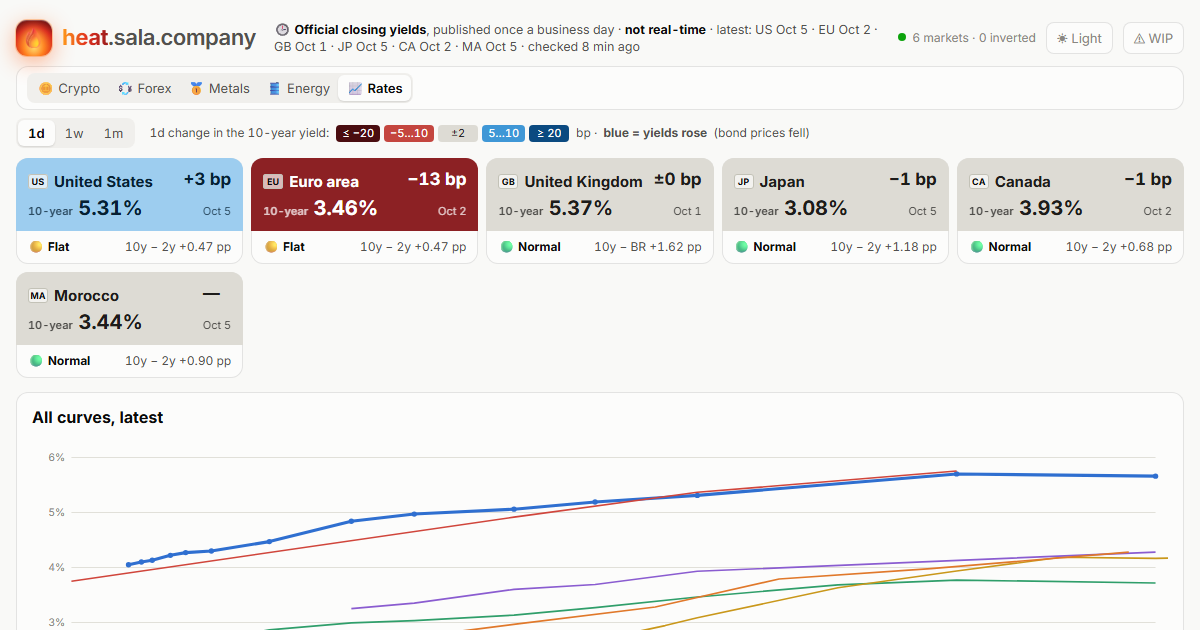
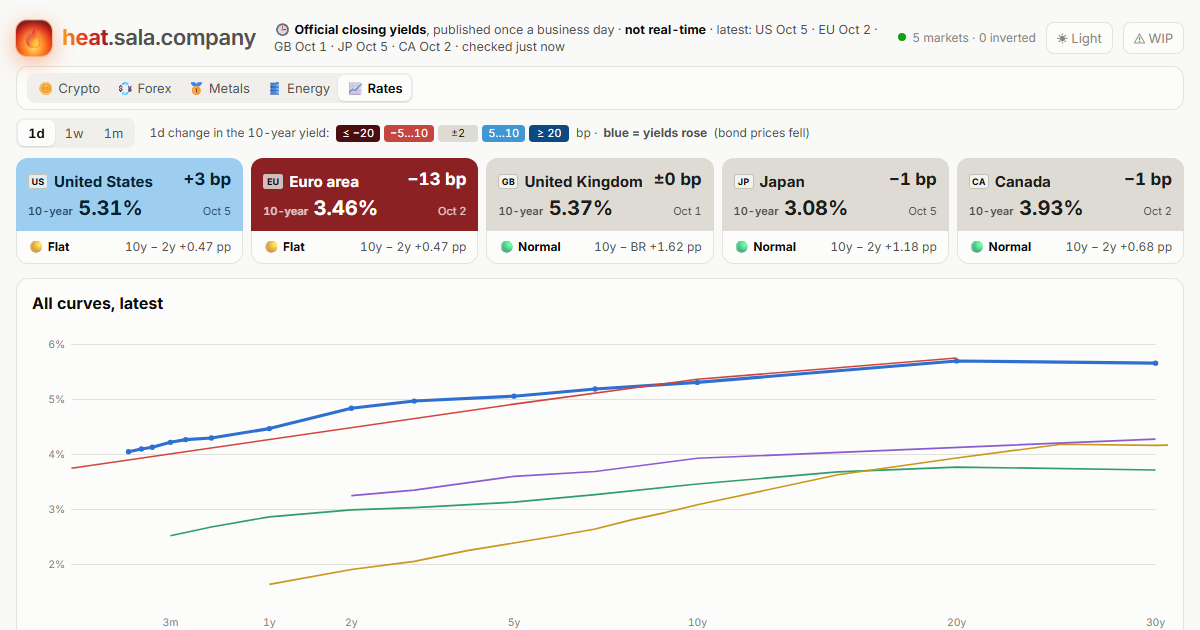
rates: drop Morocco (Bank Al-Maghrib refuses GitHub's servers)
Its website answers home connections but returns 403 to every request
from GitHub's runners, whatever the headers, so the curve can't be built
in the deploy job. Five markets remain; the About text says why Morocco
and the Gulf markets aren't shown.

diff --git a/seo/rates-head.html b/seo/rates-head.html
@@ -1,6 +1,6 @@
 <!-- SEO:start: search and link-preview tags for the rates page (swapped in by scripts/market-page.mjs) -->
 <title>Government Bond Yield Curves: US, Europe, UK, Japan | heat.sala.company</title>
-<meta name="description" content="Free government bond yield curves for the US, euro area, UK, Japan, Canada and Morocco from official sources: 10-year yields, daily changes and whether each curve is normal, flat or inverted.">
+<meta name="description" content="Free government bond yield curves for the US, euro area, UK, Japan and Canada from official sources: 10-year yields, daily changes and whether each curve is normal, flat or inverted.">
 <link rel="canonical" href="https://heat.sala.company/rates/">
 <meta name="robots" content="index, follow, max-image-preview:large">
 <meta name="author" content="sala.company">
@@ -9,14 +9,14 @@
 <meta property="og:site_name" content="heat.sala.company">
 <meta property="og:url" content="https://heat.sala.company/rates/">
 <meta property="og:title" content="Government Bond Yield Curves">
-<meta property="og:description" content="10-year yields and full yield curves for the US, euro area, UK, Japan, Canada and Morocco, from official sources, with a normal / flat / inverted reading for each.">
+<meta property="og:description" content="10-year yields and full yield curves for the US, euro area, UK, Japan and Canada, from official sources, with a normal / flat / inverted reading for each.">
 <meta property="og:image" content="https://heat.sala.company/og-image-rates.png">
 <meta property="og:image:width" content="1200">
 <meta property="og:image:height" content="630">
-<meta property="og:image:alt" content="The heat.sala.company rates page: 10-year yield tiles and yield curves for six markets">
+<meta property="og:image:alt" content="The heat.sala.company rates page: 10-year yield tiles and yield curves for five markets">
 <meta name="twitter:card" content="summary_large_image">
 <meta name="twitter:title" content="Government Bond Yield Curves">
-<meta name="twitter:description" content="10-year yields and yield curves for the US, euro area, UK, Japan, Canada and Morocco: normal, flat or inverted.">
+<meta name="twitter:description" content="10-year yields and yield curves for the US, euro area, UK, Japan and Canada: normal, flat or inverted.">
 <meta name="twitter:image" content="https://heat.sala.company/og-image-rates.png">
 <!-- structured data: what this page is, plus the FAQ shown in the footer -->
 <script type="application/ld+json">
@@ -32,7 +32,7 @@
       "operatingSystem": "Any (web browser)",
       "isAccessibleForFree": true,
       "offers": { "@type": "Offer", "price": "0", "priceCurrency": "USD" },
-      "description": "Government bond yield curves for the United States, the euro area, the United Kingdom, Japan, Canada and Morocco, from official sources: each market's 10-year yield and its daily, weekly and monthly change, the whole curve now and a week, a month and a year ago, and whether the curve is normal, flat or inverted.",
+      "description": "Government bond yield curves for the United States, the euro area, the United Kingdom, Japan and Canada, from official sources: each market's 10-year yield and its daily, weekly and monthly change, the whole curve now and a week, a month and a year ago, and whether the curve is normal, flat or inverted.",
       "publisher": { "@type": "Organization", "name": "sala.company", "url": "https://sala.company/" }
     },
     {
@@ -43,9 +43,9 @@
         { "@type": "Question", "name": "How do I know if a yield curve is healthy?",
           "acceptedAnswer": { "@type": "Answer", "text": "Look at the gap between the 10-year and the 2-year yield (for the UK, the Bank of England's Bank Rate). Half a percentage point or more is normal; between zero and half a point is flat; below zero, with short-term rates above long-term ones, the curve is inverted. An inverted US curve has come before most US recessions, though the timing varies and it is not a guarantee." } },
         { "@type": "Question", "name": "Where does the data come from, and how fresh is it?",
-          "acceptedAnswer": { "@type": "Answer", "text": "Only from official sources: the US Treasury, the European Central Bank, the Bank of England, Japan's Ministry of Finance, the Bank of Canada and Bank Al-Maghrib. They publish closing yields once a business day, some a few days late, so each market shows its own date. Nothing here is real-time." } },
+          "acceptedAnswer": { "@type": "Answer", "text": "Only from official sources: the US Treasury, the European Central Bank, the Bank of England, Japan's Ministry of Finance and the Bank of Canada. They publish closing yields once a business day, some a few days late, so each market shows its own date. Nothing here is real-time." } },
         { "@type": "Question", "name": "Why aren't Saudi Arabia, the UAE or other Gulf markets shown?",
-          "acceptedAnswer": { "@type": "Answer", "text": "Their central banks publish auction results, not a daily yield curve, and no free official daily source exists yet. China and India are missing for the same reason. Morocco's central bank does publish one every day, so it is included." } },
+          "acceptedAnswer": { "@type": "Answer", "text": "Their central banks publish auction results, not a daily yield curve, and no free official daily source exists yet. China and India are missing for the same reason. Morocco's central bank does publish a daily curve, but its website blocks the automated servers this site runs on." } },
         { "@type": "Question", "name": "Is this financial advice?",
           "acceptedAnswer": { "@type": "Answer", "text": "No. It is an experimental, work-in-progress tool. Data can be late, wrong or missing." } }
       ]

diff --git a/seo/rates-about.html b/seo/rates-about.html
@@ -1,15 +1,15 @@
     <!-- ABOUT:start: About + FAQ for the rates page (swapped in by scripts/market-page.mjs; same questions as the FAQ structured data) -->
     <section class="about" aria-labelledby="about-h">
       <h2 id="about-h">About these yield curves</h2>
-      <p>heat.sala.company/rates shows government bond yields for the United States, the euro area, the United Kingdom, Japan, Canada and Morocco: each market's 10-year yield, how it moved, and its whole yield curve, with a simple reading of whether the curve looks healthy.</p>
+      <p>heat.sala.company/rates shows government bond yields for the United States, the euro area, the United Kingdom, Japan and Canada: each market's 10-year yield, how it moved, and its whole yield curve, with a simple reading of whether the curve looks healthy.</p>
       <h3>What is a yield curve?</h3>
       <p>The interest rate a government pays to borrow for different lengths of time, from a few months to 30 years, drawn as one line. Normally it slopes up: lenders want more to lock their money away for longer.</p>
       <h3>How do I know if a yield curve is healthy?</h3>
       <p>Look at the gap between the 10-year and the 2-year yield (for the UK, the Bank of England's Bank Rate). Half a percentage point or more is <b>normal</b>; between zero and half a point is <b>flat</b>; below zero, with short-term rates above long-term ones, the curve is <b>inverted</b>. An inverted US curve has come before most US recessions, though the timing varies and it is not a guarantee.</p>
       <h3>Where does the data come from, and how fresh is it?</h3>
-      <p>Only from official sources: the US Treasury, the European Central Bank, the Bank of England, Japan's Ministry of Finance, the Bank of Canada and Bank Al-Maghrib. They publish closing yields once a business day, some a few days late, so each market shows its own date. Nothing here is real-time.</p>
+      <p>Only from official sources: the US Treasury, the European Central Bank, the Bank of England, Japan's Ministry of Finance and the Bank of Canada. They publish closing yields once a business day, some a few days late, so each market shows its own date. Nothing here is real-time.</p>
       <h3>Why aren't Saudi Arabia, the UAE or other Gulf markets shown?</h3>
-      <p>Their central banks publish auction results, not a daily yield curve, and no free official daily source exists yet. China and India are missing for the same reason. Morocco's central bank does publish one every day, so it is included.</p>
+      <p>Their central banks publish auction results, not a daily yield curve, and no free official daily source exists yet. China and India are missing for the same reason. Morocco's central bank does publish a daily curve, but its website blocks the automated servers this site runs on.</p>
       <h3>Is this financial advice?</h3>
       <p>No. It is an experimental, work-in-progress tool. Data can be late, wrong or missing.</p>
     </section>

diff --git a/seo/rates-sources.html b/seo/rates-sources.html
@@ -1,4 +1,4 @@
     <!-- SOURCES:start -->
-    <div class="cg-foot">Yields: <a href="https://home.treasury.gov/resource-center/data-chart-center/interest-rates" target="_blank" rel="noopener">US Treasury</a>, <a href="https://www.ecb.europa.eu/stats/financial_markets_and_interest_rates/euro_area_yield_curves/html/index.en.html" target="_blank" rel="noopener">European Central Bank</a>, <a href="https://www.bankofengland.co.uk/boeapps/database/" target="_blank" rel="noopener">Bank of England</a>, <a href="https://www.mof.go.jp/english/policy/jgbs/reference/interest_rate/index.htm" target="_blank" rel="noopener">Ministry of Finance Japan</a>, <a href="https://www.bankofcanada.ca/rates/interest-rates/canadian-bonds/" target="_blank" rel="noopener">Bank of Canada</a> and <a href="https://www.bkam.ma/" target="_blank" rel="noopener">Bank Al-Maghrib</a>.</div>
+    <div class="cg-foot">Yields: <a href="https://home.treasury.gov/resource-center/data-chart-center/interest-rates" target="_blank" rel="noopener">US Treasury</a>, <a href="https://www.ecb.europa.eu/stats/financial_markets_and_interest_rates/euro_area_yield_curves/html/index.en.html" target="_blank" rel="noopener">European Central Bank</a>, <a href="https://www.bankofengland.co.uk/boeapps/database/" target="_blank" rel="noopener">Bank of England</a>, <a href="https://www.mof.go.jp/english/policy/jgbs/reference/interest_rate/index.htm" target="_blank" rel="noopener">Ministry of Finance Japan</a> and <a href="https://www.bankofcanada.ca/rates/interest-rates/canadian-bonds/" target="_blank" rel="noopener">Bank of Canada</a>.</div>
     <div>Official closing yields, published once a business day (some a few days late); checked every few hours. Nothing here is real-time. Not financial advice.</div>
     <!-- SOURCES:end -->

diff --git a/README.md b/README.md
@@ -124,13 +124,13 @@ Oil, refined products and natural gas, from the futures markets where their pric
 
 ## Rates: heat.sala.company/rates/
 
-Government bond **yield curves** for the **United States, euro area, United Kingdom, Japan, Canada and Morocco**: each market's 10-year yield and its change in basis points (1d / 1w / 1m), whether its curve is healthy, every curve on one chart, and the chosen market's curve now vs a week, a month and a year ago with two years of slope history.
+Government bond **yield curves** for the **United States, euro area, United Kingdom, Japan and Canada**: each market's 10-year yield and its change in basis points (1d / 1w / 1m), whether its curve is healthy, every curve on one chart, and the chosen market's curve now vs a week, a month and a year ago with two years of slope history.
 
-- **Official sources only,** published once a business day after the close (some a few days late, so each market shows its own date): US Treasury par yield curve, ECB curve of AAA-rated euro area government bonds, Bank of England (Bank Rate plus the 5, 10 and 20-year gilt yields, the free daily series), Japan's Ministry of Finance, Bank of Canada benchmark yields, and Bank Al-Maghrib's daily reference curve for Moroccan Treasury bonds. Live yields exist only on unofficial feeds whose terms don't allow republishing, so they aren't used.
+- **Official sources only,** published once a business day after the close (some a few days late, so each market shows its own date): US Treasury par yield curve, ECB curve of AAA-rated euro area government bonds, Bank of England (Bank Rate plus the 5, 10 and 20-year gilt yields, the free daily series), Japan's Ministry of Finance and Bank of Canada benchmark yields. Live yields exist only on unofficial feeds whose terms don't allow republishing, so they aren't used.
 - **Healthy or not:** the slope, 10-year minus 2-year (the UK: minus Bank Rate). **🟢 Normal** at +0.5 pp or more, **🟡 Flat** between 0 and +0.5, **🔴 Inverted** below zero (short rates above long ones; an inverted US curve has come before most US recessions, with varying lead times and no guarantee).
-- **Not included:** the Gulf states (their central banks publish auction results, not a daily curve), China and India (no free official daily feed).
+- **Not included:** the Gulf states (their central banks publish auction results, not a daily curve), China and India (no free official daily feed), Morocco (Bank Al-Maghrib publishes a daily curve, but its website refuses requests from cloud servers such as GitHub's).
 - **Its own view:** this page isn't a price heatmap, so `app/rates.mjs` draws it (tiles, plain-SVG charts sized to the screen, a `?c=` address for the chosen market); `main.mjs` starts it instead of the price pipeline. Tile colors use the shared scale, in basis points: blue = yields rose.
-- `scripts/build-rates.mjs` runs in the deploy job but refetches only every 3 hours (the sources change once a day). Morocco's past curves are fetched a few dates per run (weekly points back a year) and kept in `rates.json`; from then on it adds each day. A source that fails keeps its last curve, marked late; the sources health line has a **Bond yields** entry.
+- `scripts/build-rates.mjs` runs in the deploy job but refetches only every 3 hours (the sources change once a day). A source that fails keeps its last curve, marked late; the sources health line has a **Bond yields** entry.
 
 ## TradingView chart links
 
